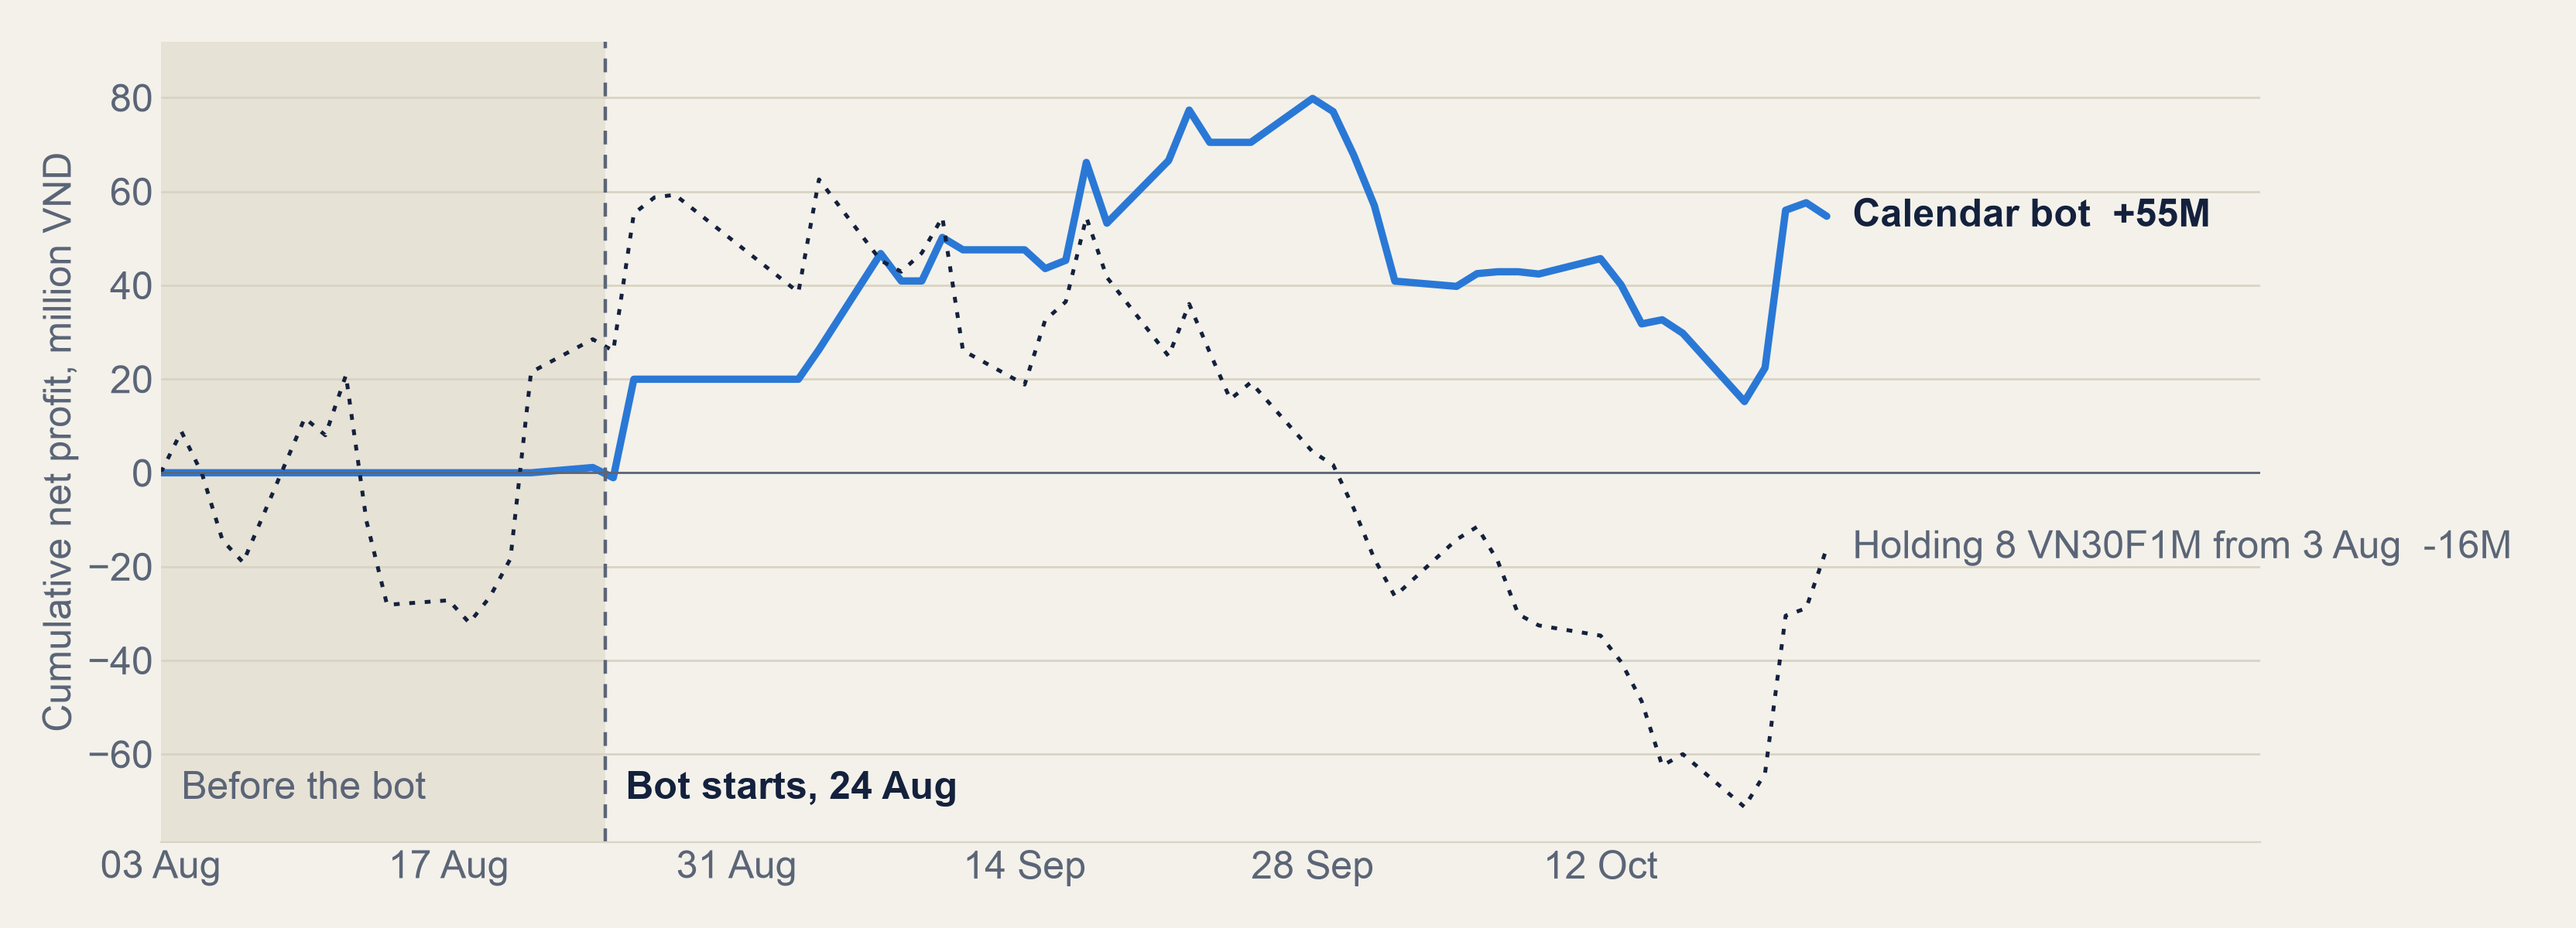
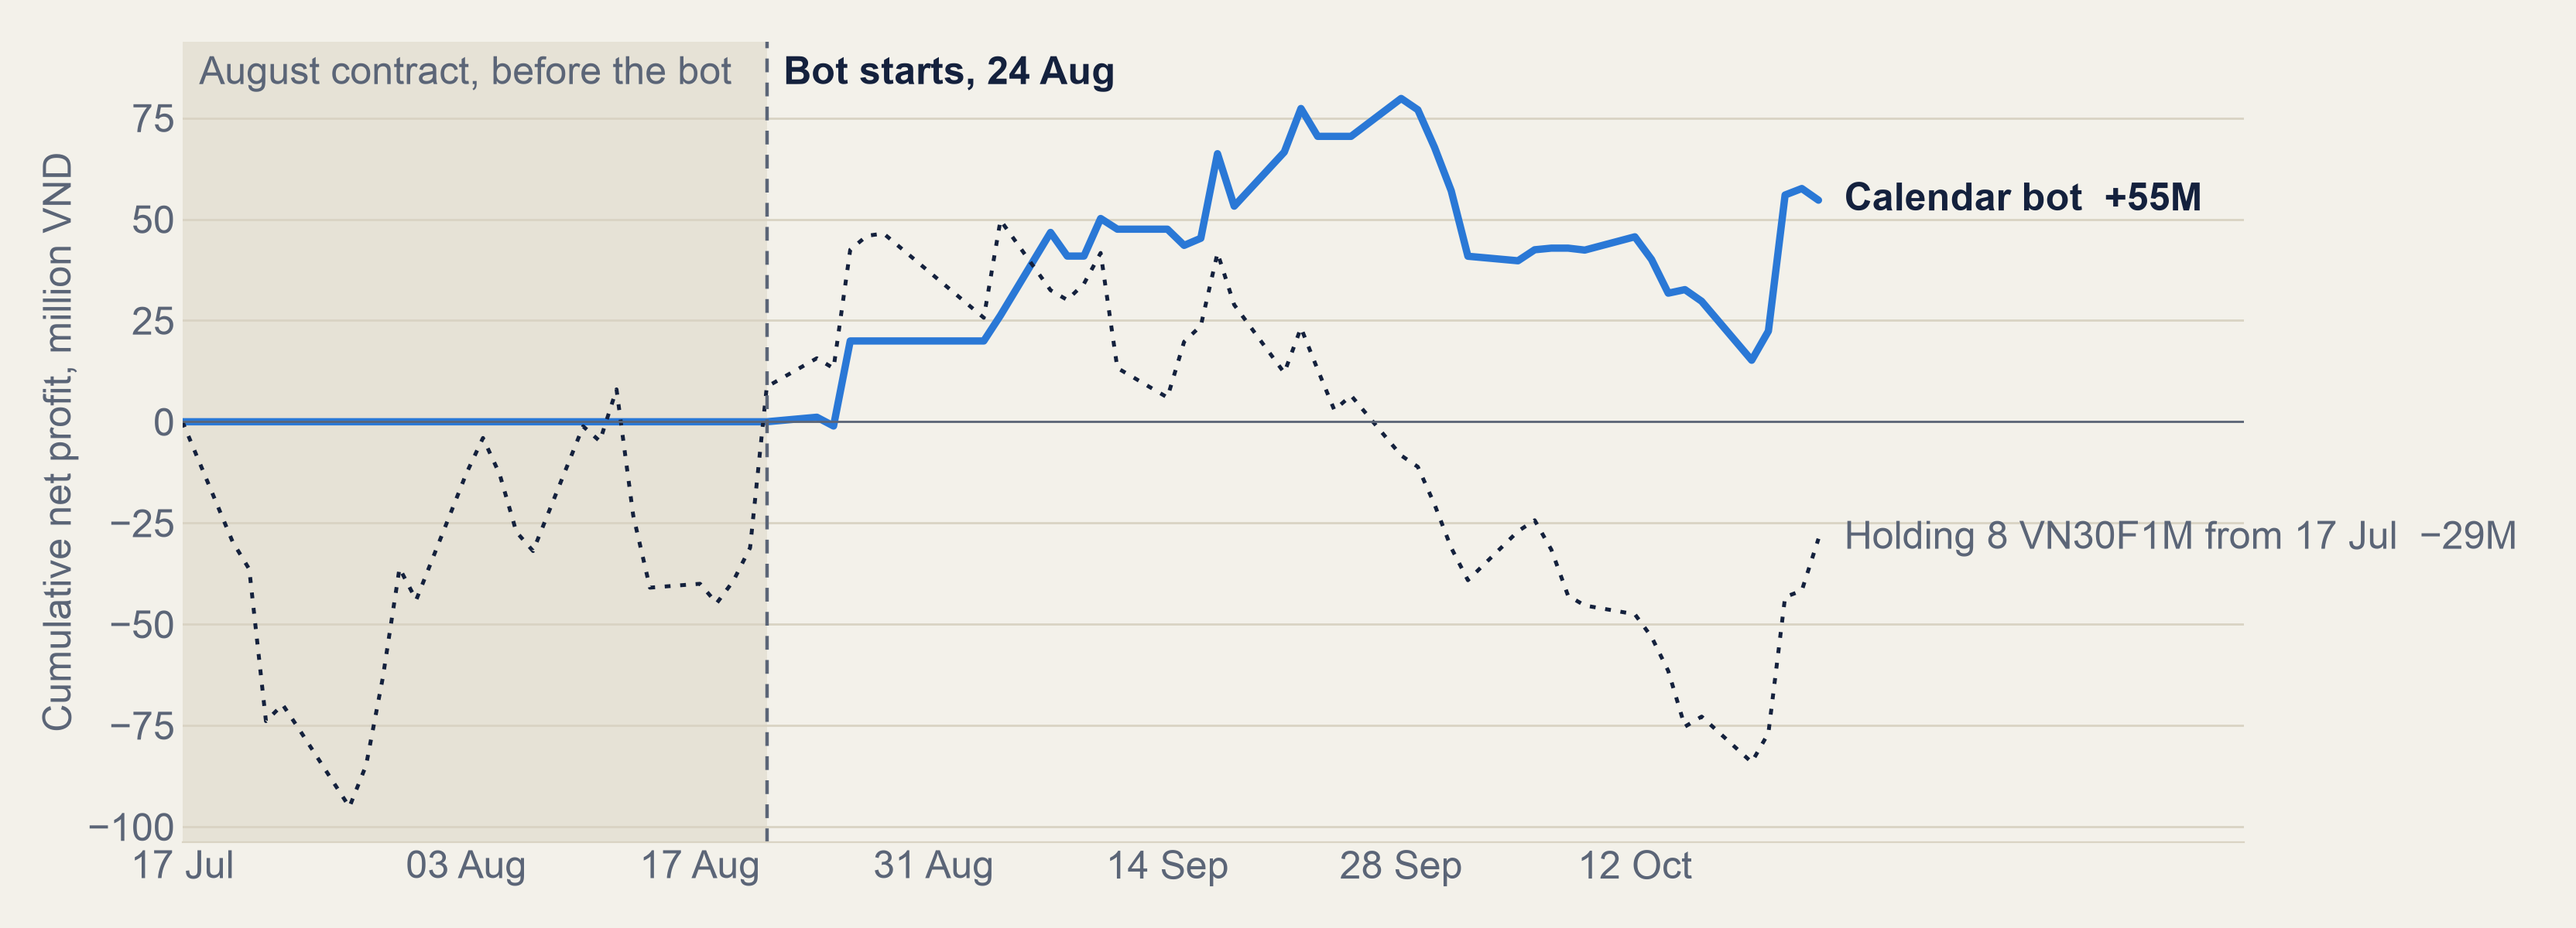
docs(readme): Calendar paper chart starts with the August contract (17 Jul)

diff --git a/README.md b/README.md
@@ -296,9 +296,9 @@ Paper trading on the exchange’s paper platform began on 25 Aug 2026 with the C
 |---:|---:|---:|---:|---:|---:|
 | +54.7 M VND | +10.9% | ≈ 2.2 | ≈ −11% | 12 of 23 | 7.3 M VND |
 
-![Calendar bot on the paper account against holding 8 VN30F1M, August to October 2026](image/README/paper_calendar.png)
+![Calendar bot on the paper account against holding 8 VN30F1M from the start of the August contract (17 Jul) to 23 Oct 2026](image/README/paper_calendar.png)
 
-The platform’s own holding-period chart shows +10.89% for the account against +5.57% for VN30 and +6.30% for VNINDEX over 27 Jul – 25 Oct. Holding 8 futures contracts from the day the bot started (rolled at each expiry) lost 38 million VND. Profit is from the account’s trades after fees; Sharpe and drawdown are estimates from an equity curve marked at each session’s close with DNSE prices (the platform’s NAV history API returns nothing).
+The platform’s own holding-period chart shows +10.89% for the account against +5.57% for VN30 and +6.30% for VNINDEX over 27 Jul – 25 Oct. Holding 8 futures contracts from the day the bot started (rolled at each expiry) lost 38 million VND; from 17 Jul, the first session of the August contract where the chart starts, it lost 29 million. Profit is from the account’s trades after fees; Sharpe and drawdown are estimates from an equity curve marked at each session’s close with DNSE prices (the platform’s NAV history API returns nothing).
 
 **Calibrum live, from 23 Oct 2026** (10 contracts, AWS EC2, [`papertrade/`](papertrade/README.md)):
 
